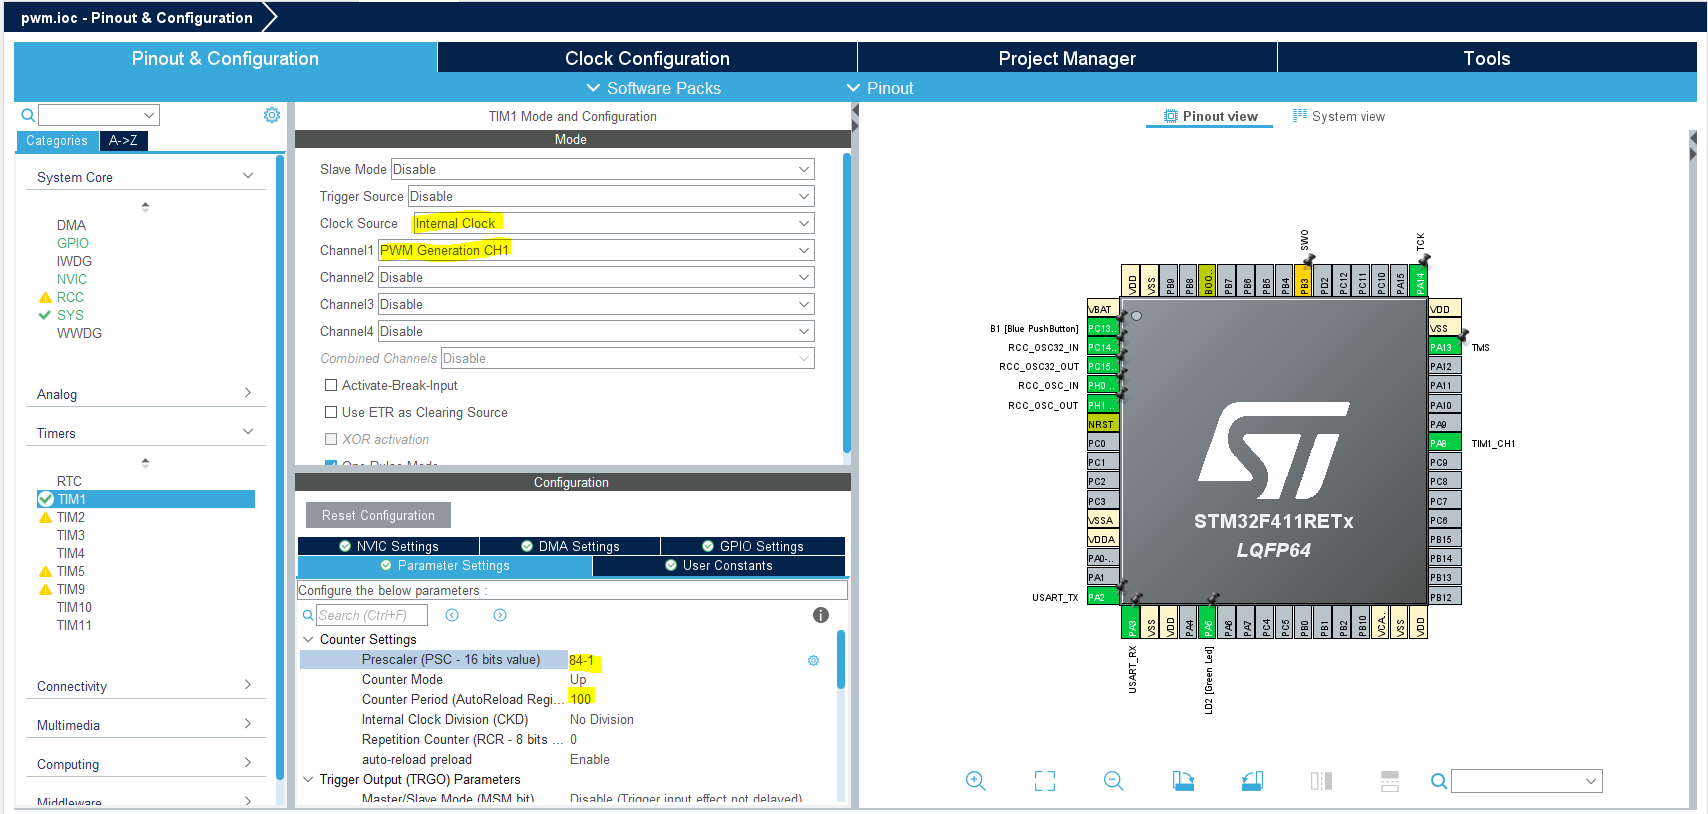
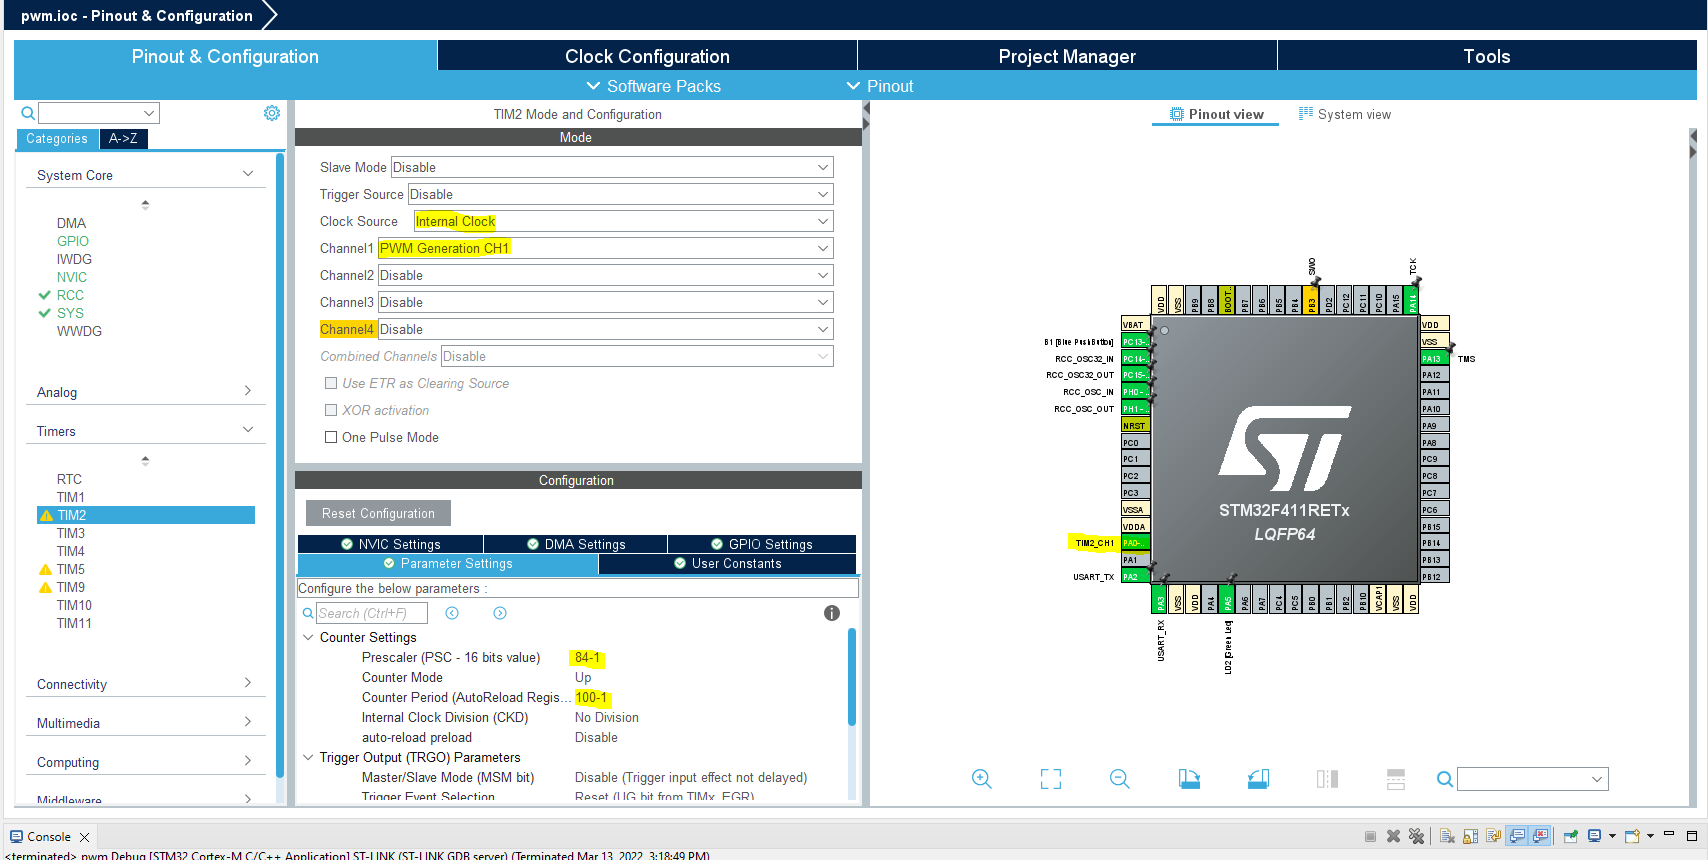
updatedf readme

Changed region(s): [[0.0, 0.0, 1.0, 1.0], [0.5896, 0.3071, 0.8689, 0.7985], [0.1241, 0.8292, 0.1552, 0.86]]

diff --git a/Chapter 7. Pulse-width-modulation/README.md b/Chapter 7. Pulse-width-modulation/README.md
@@ -1,17 +1,19 @@
-# Chapter 7. Pulse-width-modulation
-In this chapter you will learn about pulse-width-modulation (PWM):
+# Chapter 7. Pulse width modulation
+In this chapter you will learn about pulse width modulation (PWM):
 
 - What PWM is
 - How to setup PWM in CUBEMX
 - How to use PWM to dim an LED
 
-## Introduction: Pulse-witdh- modulation
+## Introduction: Pulse witdh modulation
 
+PWM is one of the core functions of timers, used in a variaty of applications. In short it consist of a pulse running at a certain frequency, where one can vary the ratio of the witdh of the pulse. This means that one can set the pulse to only be high 10 % of the time, this is a duty cycle of 10. 
 
+For a more in-depth explanation read Deepblueembedded's artikel: https://deepbluembedded.com/stm32-pwm-example-timer-pwm-mode-tutorial/
 
 ## Setup: Setup timer for PWM
 
-
+First we need to setup our timer for PWM. We are gonna use timer2 for this. Set the clock source to the internal clock and channel 1 to PWM Generation, this enables PA0 as the pwm output. Then in parameter setttings we are gonna set the prescaler to 84-1 since we want a nice clock at 1 mHz, and then set our clock period to 100-1, which gives use a pwm frequency of 10 kHz. Save the settings and generate the new code.
 
 <p align="center">
     <img src = "setup_pwm_timer.png", width="800">
@@ -20,20 +22,48 @@ In this chapter you will learn about pulse-width-modulation (PWM):
 
 ## Exercise: Dimming a led
 
-In this exerise we are gonna use pwm for dimming an LED. 
+In this exerise we are gonna use pwm for dimming an LED. Here we are gonna use the HAL library again. We are gonna use HAL_TIM_PWM_START. If you have a time critical application, where you need to update the pwm, you should use HAL_TIM_PWM_START_IT or HAL_TIM_PWM_START_DMA.
 
+In the code snipped below, we set the pwm duty cycle register to 10. This gives us a duty cycle of 60. Then we use HAL to enable our pwm generation. Now run the code at probe GPIO pin PA0 with a digital analyser or oscilloscope.  
 ```c
   /* Initialize all configured peripherals */
   MX_GPIO_Init();
   MX_USART2_UART_Init();
-  MX_TIM1_Init();
+  MX_TIM2_Init();
   /* USER CODE BEGIN 2 */
-  TIM1->CCR1 = 60; // set duty cycle of 60 %
-  HAL_TIM_PWM_Start(&htim1, TIM_CHANNEL_1); // init pwm
+  TIM2->CCR1 = 10; // set duty cycle of 10 %
+  HAL_TIM_PWM_Start(&htim2, TIM_CHANNEL_1); // init pwm
+```
+Here we will see that our pwm has a frequency of 10 Khz and a duty cycle of 10. Now lets try to add a LED to our pwm signal and make a simple code that dimmes the led.
+
+<p align="center">
+    <img src = "10kHz_10dc.png", width="800">
+</p>
+
+We are gonna make two while loops, in which we make steps of 2 up and down in our duty cycle.
+
+```c
+  /* Infinite loop */
+  /* USER CODE BEGIN WHILE */
+  while (1)
+  {
+
+      while(duty_cycle < 100)
+      {
+          TIM2->CCR1 = duty_cycle;
+          duty_cycle += 2;
+          HAL_Delay(10);
+      }
+      while(duty_cycle > 0)
+      {
+          TIM2->CCR1 = duty_cycle;
+          duty_cycle -= 2;
+          HAL_Delay(10);
+      }
+
 ```
 
-
-
+Then setup your cirtuit as shown below and run the program.
 
 <p align="center">
     <img src = "pwm_led_bb.png", width="800">
